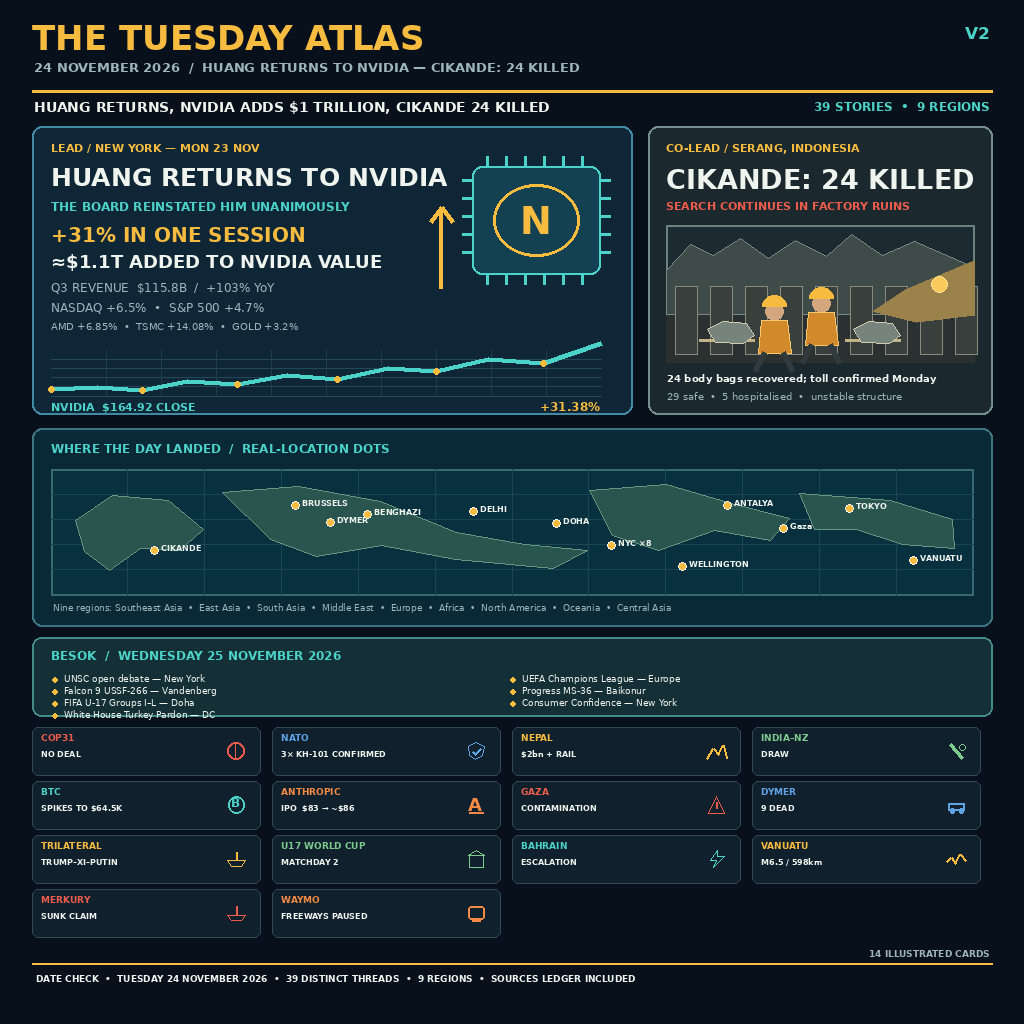
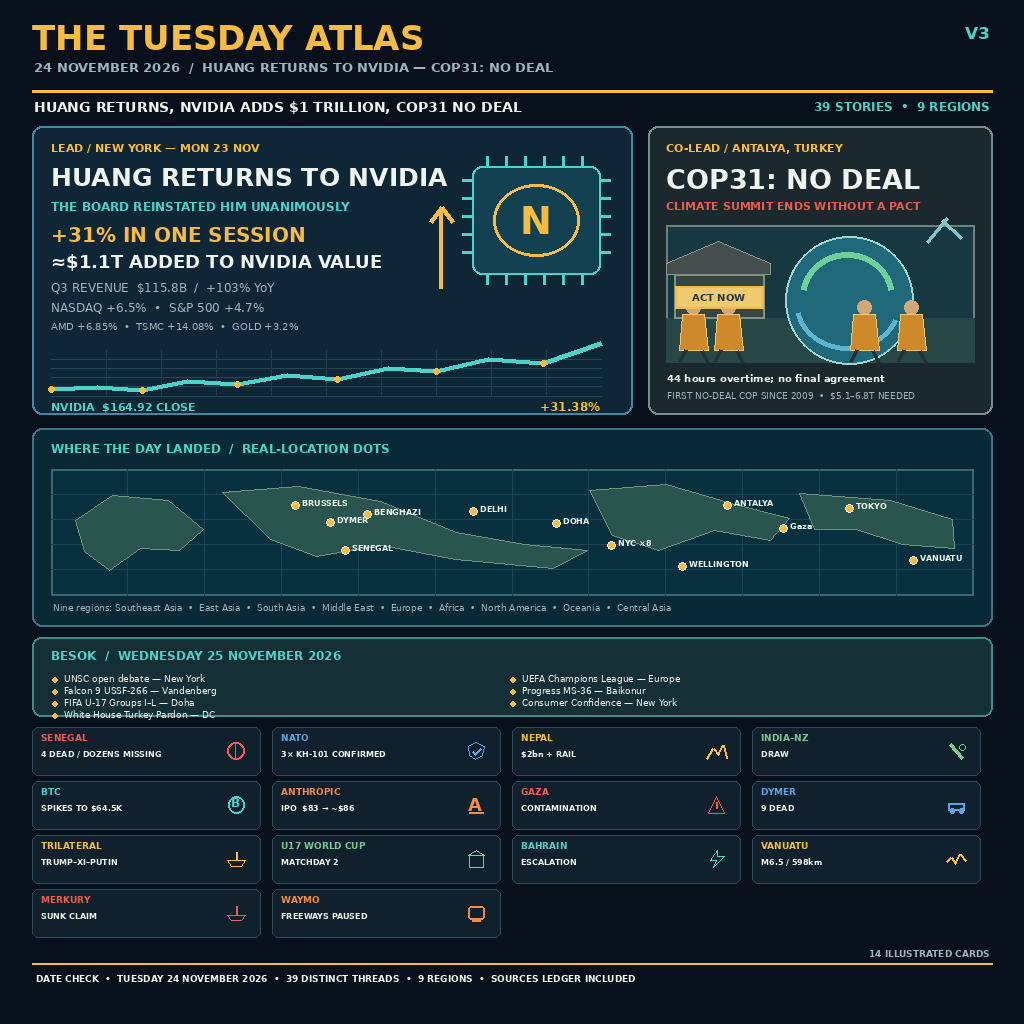
Replace Cikande with global COP31 co-lead

diff --git a/render.py b/render.py
@@ -11,8 +11,8 @@ def text(x, y, s, n=12, c=INK, bold=False, anchor=None): d.text((x, y), s, font=
 def box(x0, y0, x1, y1, fill=PANEL, outline=(52, 83, 96), r=8, w=2): d.rounded_rectangle((x0,y0,x1,y1), r, fill=fill, outline=outline, width=w)
 def line(points, fill, width=2): d.line(points, fill=fill, width=width)
 
-text(32,18,'THE TUESDAY ATLAS',34,GOLD,True); text(34,59,'24 NOVEMBER 2026  /  HUANG RETURNS TO NVIDIA — CIKANDE: 24 KILLED',13,MUTED,True); text(990,23,'V2',17,CYAN,True,'ra'); line((32,91,992,91),GOLD,3)
-text(34,99,'HUANG RETURNS, NVIDIA ADDS $1 TRILLION, CIKANDE 24 KILLED',14,INK,True); text(990,99,'39 STORIES  •  9 REGIONS',12,CYAN,True,'ra')
+text(32,18,'THE TUESDAY ATLAS',34,GOLD,True); text(34,59,'24 NOVEMBER 2026  /  HUANG RETURNS TO NVIDIA — COP31: NO DEAL',13,MUTED,True); text(990,23,'V3',17,CYAN,True,'ra'); line((32,91,992,91),GOLD,3)
+text(34,99,'HUANG RETURNS, NVIDIA ADDS $1 TRILLION, COP31 NO DEAL',14,INK,True); text(990,99,'39 STORIES  •  9 REGIONS',12,CYAN,True,'ra')
 
 box(32,126,632,414,(15,38,55),(64,139,163),10,2); text(51,141,'LEAD / NEW YORK — MON 23 NOV',11,GOLD,True); text(51,162,'HUANG RETURNS TO NVIDIA',25,INK,True); text(51,199,'THE BOARD REINSTATED HIM UNANIMOUSLY',12,CYAN,True); text(51,223,'+31% IN ONE SESSION',20,GOLD,True); text(51,251,'≈$1.1T ADDED TO NVIDIA VALUE',18,INK,True); text(51,280,'Q3 REVENUE  $115.8B  /  +103% YoY',12,MUTED); text(51,300,'NASDAQ +6.5%  •  S&P 500 +4.7%',12,MUTED); text(51,320,'AMD +6.85%  •  TSMC +14.08%  •  GOLD +3.2%',10,MUTED)
 gx,gy,gw,gh=51,350,550,46
@@ -27,28 +27,28 @@ for xx in (487,506,525,544,563,582): line((xx,156,xx,166),CYAN,3); line((xx,274,
 for yy in (180,198,216,234,252): line((462,yy,472,yy),CYAN,3); line((600,yy,610,yy),CYAN,3)
 d.ellipse((493,184,579,256),outline=GOLD,width=3); text(536,220,'N',38,GOLD,True,'mm'); line((441,288,441,207),GOLD,4); line((441,207,430,222),GOLD,4); line((441,207,452,222),GOLD,4)
 
-box(648,126,992,414,(27,40,46),(116,141,141),10,2); text(666,141,'CO-LEAD / SERANG, INDONESIA',11,GOLD,True); text(666,163,'CIKANDE: 24 KILLED',27,INK,True); text(666,199,'SEARCH CONTINUES IN FACTORY RUINS',11,RED,True)
-ix0,iy0,ix1,iy1=666,225,974,362; d.rectangle((ix0,iy0,ix1,iy1),fill=(30,42,49),outline=(107,130,127),width=2); d.rectangle((ix0,314,ix1,iy1),fill=(43,48,48)); roof=[(ix0,270),(690,244),(713,255),(740,238),(768,258),(795,240),(826,256),(851,234),(882,255),(914,241),(ix1,267),(ix1,314),(ix0,314)]; d.polygon(roof,fill=(62,75,73),outline=(120,137,127))
-for x in range(675,960,35): d.rectangle((x,286,x+22,354),fill=(56,63,61),outline=(137,138,123))
-d.polygon([(872,311),(905,289),(974,260),(974,315),(916,322)],fill=(155,130,74)); d.ellipse((931,276,947,292),fill=(250,203,92),outline=(255,228,142))
-for x in (699,845): d.line((x,340,x+55,340),fill=(195,179,137),width=3); d.polygon([(x+8,329),(x+24,321),(x+47,323),(x+55,335),(x+44,343),(x+16,342)],fill=(119,132,126),outline=(209,204,174))
-for x,y in ((774,329),(821,321)):
- d.ellipse((x-9,y-27,x+9,y-9),fill=(212,166,126)); d.pieslice((x-12,y-34,x+12,y-12),180,360,fill=GOLD); d.polygon([(x-13,y-9),(x+13,y-9),(x+17,y+24),(x-16,y+24)],fill=(209,137,43),outline=(244,200,111)); d.line((x-10,y+23,x-19,y+42),fill=(49,58,61),width=5); d.line((x+9,y+23,x+18,y+42),fill=(49,58,61),width=5)
-text(667,372,'24 body bags recovered; toll confirmed Monday',10,INK,True); text(667,390,'29 safe  •  5 hospitalised  •  unstable structure',10,MUTED)
+box(648,126,992,414,(27,40,46),(116,141,141),10,2); text(666,141,'CO-LEAD / ANTALYA, TURKEY',11,GOLD,True); text(666,163,'COP31: NO DEAL',27,INK,True); text(666,199,'CLIMATE SUMMIT ENDS WITHOUT A PACT',11,RED,True)
+ix0,iy0,ix1,iy1=666,225,974,362; d.rectangle((ix0,iy0,ix1,iy1),fill=(24,56,65),outline=(107,130,127),width=2); d.rectangle((ix0,318,ix1,iy1),fill=(39,72,70))
+# A summit hall scene: delegates, climate placards, and a storm front over the globe.
+d.ellipse((785,236,913,364),fill=(32,105,122),outline=(155,217,207),width=2); d.arc((800,252,894,342),190,350,fill=(111,207,154),width=6); d.arc((795,260,900,350),20,170,fill=(93,181,209),width=5); d.polygon([(666,263),(718,241),(770,263),(770,274),(666,274)],fill=(70,78,77),outline=(138,151,137)); d.rectangle((674,274,764,318),fill=(54,69,68),outline=(132,146,132),width=2)
+for x in (693,728,864,911):
+ d.ellipse((x-7,300,x+7,314),fill=(211,165,123)); d.polygon([(x-11,314),(x+11,314),(x+15,350),(x-14,350)],fill=(206,137,43),outline=(242,198,106)); d.line((x-8,350,x-14,362),fill=(35,48,53),width=4); d.line((x+8,350,x+14,362),fill=(35,48,53),width=4)
+d.rectangle((675,286,763,308),fill=(238,202,112),outline=GOLD,width=2); text(719,297,'ACT NOW',10,(34,55,57),True,'mm'); d.line((927,242,947,218),fill=(132,196,201),width=3); d.line((942,220,961,238),fill=(132,196,201),width=3)
+text(667,372,'44 hours overtime; no final agreement',10,INK,True); text(667,390,'FIRST NO-DEAL COP SINCE 2009  •  $5.1–6.8T NEEDED',9,MUTED)
 
 box(32,428,992,626,(10,41,54),(61,116,129),10,2); text(51,441,'WHERE THE DAY LANDED  /  REAL-LOCATION DOTS',12,CYAN,True); mx,my,mw,mh=51,469,922,126; d.rectangle((mx,my,mx+mw,my+mh),fill=(9,48,63),outline=(57,106,115),width=2)
 for i in range(1,12): line((mx+i*mw/12,my,mx+i*mw/12,my+mh),(24,70,82),1)
 for i in range(1,5): line((mx,my+i*mh/5,mx+mw,my+i*mh/5),(24,70,82),1)
 continents=[[(75,520),(112,495),(168,500),(203,529),(179,550),(140,548),(109,570),(84,551)],[(222,492),(298,486),(380,501),(456,532),(524,544),(587,550),(553,568),(455,559),(381,545),(316,556),(270,539)],[(589,490),(666,484),(731,503),(789,518),(770,540),(714,530),(658,550),(612,535)],[(799,493),(890,500),(952,519),(954,548),(902,544),(856,529),(814,529)]]
 for shape in continents: d.polygon(shape,fill=(42,85,79),outline=(102,150,125))
-marks=[(154,550,'CIKANDE'),(295,505,'BRUSSELS'),(330,522,'DYMER'),(367,514,'BENGHAZI'),(473,511,'DELHI'),(556,523,'DOHA'),(611,545,'NYC ×8'),(682,566,'WELLINGTON'),(727,505,'ANTALYA'),(783,528,'Gaza'),(849,508,'TOKYO'),(913,560,'VANUATU')]
+marks=[(345,550,'SENEGAL'),(295,505,'BRUSSELS'),(330,522,'DYMER'),(367,514,'BENGHAZI'),(473,511,'DELHI'),(556,523,'DOHA'),(611,545,'NYC ×8'),(682,566,'WELLINGTON'),(727,505,'ANTALYA'),(783,528,'Gaza'),(849,508,'TOKYO'),(913,560,'VANUATU')]
 for x,y,label in marks: d.ellipse((x-4,y-4,x+4,y+4),fill=GOLD,outline=INK); text(x+7,y-7,label,8,INK,True)
 text(53,602,'Nine regions: Southeast Asia  •  East Asia  •  South Asia  •  Middle East  •  Europe  •  Africa  •  North America  •  Oceania  •  Central Asia',9,MUTED)
 
 box(32,637,992,716,(20,47,54),(66,139,137),9,2); text(51,648,'BESOK  /  WEDNESDAY 25 NOVEMBER 2026',12,CYAN,True); events=['UNSC open debate — New York','UEFA Champions League — Europe','Falcon 9 USSF-266 — Vandenberg','Progress MS-36 — Baikonur','FIFA U-17 Groups I–L — Doha','Consumer Confidence — New York','White House Turkey Pardon — DC']
 for i,event in enumerate(events): x=52+(i%2)*458; y=673+(i//2)*12; d.ellipse((x,y+4,x+5,y+9),fill=GOLD); text(x+12,y,event,9,INK)
 
-cards=[('COP31','NO DEAL',RED),('NATO','3× KH-101 CONFIRMED',BLUE),('NEPAL','$2bn + RAIL',GOLD),('INDIA–NZ','DRAW',GREEN),('BTC','SPIKES TO $64.5K',CYAN),('ANTHROPIC','IPO  $83 → ~$86',ORANGE),('GAZA','CONTAMINATION',RED),('DYMER','9 DEAD',BLUE),('TRILATERAL','TRUMP–XI–PUTIN',GOLD),('U17 WORLD CUP','MATCHDAY 2',GREEN),('BAHRAIN','ESCALATION',CYAN),('VANUATU','M6.5 / 598km',GOLD),('MERKURY','SUNK CLAIM',RED),('WAYMO','FREEWAYS PAUSED',ORANGE)]
+cards=[('SENEGAL','4 DEAD / DOZENS MISSING',RED),('NATO','3× KH-101 CONFIRMED',BLUE),('NEPAL','$2bn + RAIL',GOLD),('INDIA–NZ','DRAW',GREEN),('BTC','SPIKES TO $64.5K',CYAN),('ANTHROPIC','IPO  $83 → ~$86',ORANGE),('GAZA','CONTAMINATION',RED),('DYMER','9 DEAD',BLUE),('TRILATERAL','TRUMP–XI–PUTIN',GOLD),('U17 WORLD CUP','MATCHDAY 2',GREEN),('BAHRAIN','ESCALATION',CYAN),('VANUATU','M6.5 / 598km',GOLD),('MERKURY','SUNK CLAIM',RED),('WAYMO','FREEWAYS PAUSED',ORANGE)]
 def icon(x,y,c,i):
  if i==0: d.ellipse((x,y,x+17,y+17),outline=c,width=2); line((x+8,y+1,x+8,y+16),c,1)
  elif i==1: d.polygon([(x+8,y),(x+17,y+4),(x+15,y+13),(x+8,y+17),(x+2,y+13),(x+1,y+4)],outline=c); line((x+5,y+9,x+8,y+12),c,2); line((x+8,y+12,x+14,y+6),c,2)

diff --git a/SOURCES.md b/SOURCES.md
@@ -3,7 +3,7 @@
 All facts in the plate are drawn from the competition pre-research and the 24 Nov 06:20 WIB re-research. The 39 threads below are distinct; related updates remain within one thread.
 
 1. Jensen Huang reinstated at Nvidia; $164.92, +31.38%, almost $1.1tn added, Reuters/WSJ/Bloomberg, 23 Nov.
-2. Cikande factory fire, 24 killed, ~30 missing, Reuters/TBS News, 23 Nov.
+2. Senegal migrant boat capsized off Yenne, at least 4 dead and dozens missing, local reporting summarized in 24 Nov re-research, 24 Nov.
 3. COP31 ended without a deal, Reuters/WRI/UN, 22–23 Nov.
 4. Poland airspace: three Kh-101 confirmed; NATO council, NATO/Polish prosecutors, 23 Nov.
 5. Nepal–India $2bn proposal and 604km rail, Indian government/Zee, 23 Nov.
